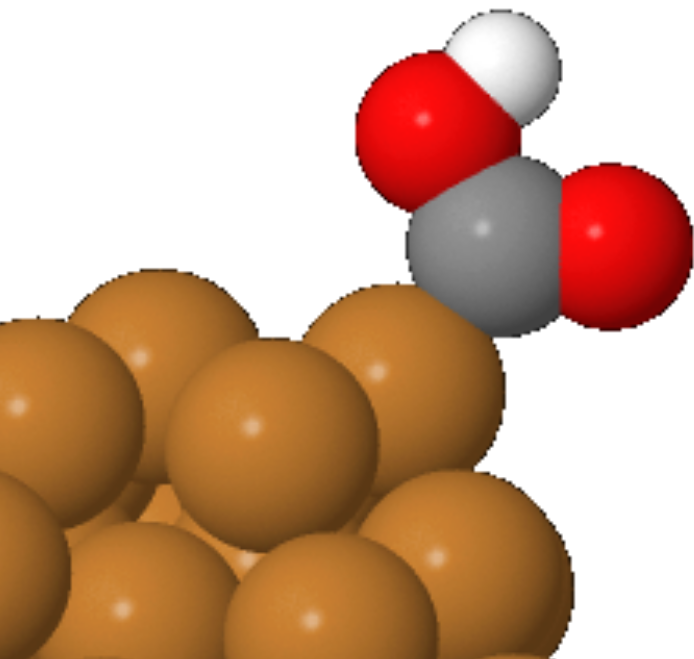
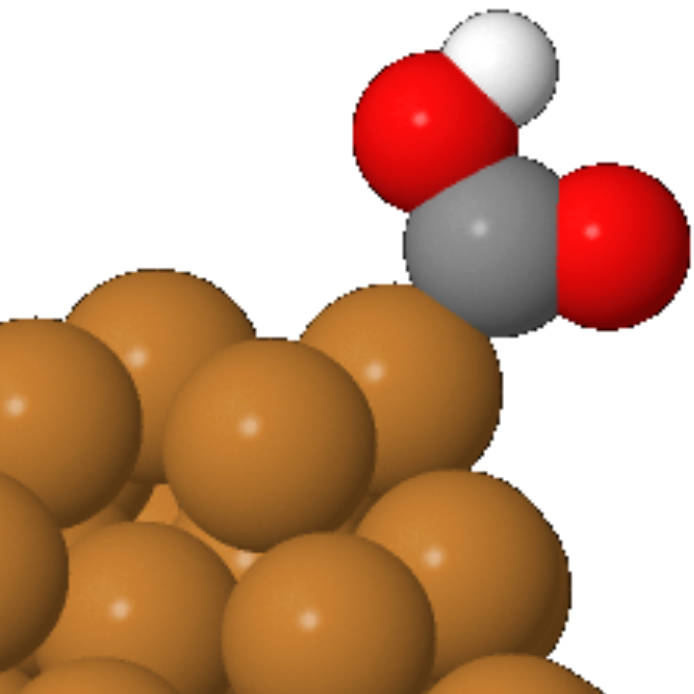
update version of Adsorber v1.9

diff --git a/README.md b/README.md
@@ -19,7 +19,7 @@ Group page: https://blogs.otago.ac.nz/annagarden/
 
 ## What is Adsorber
 
-Adsorber is designed to adsorb molecules in various way to a cluster or surface. 
+Adsorber is designed to create a number of models that have adsorbates adsorbed to various top, bridge, three-fold, and four-fold site on a cluster or surface model. 
 
 ## Installation
 
@@ -33,7 +33,7 @@ Jmol is also used for looking at your cluster/surface model with adsorbed atoms 
 
 ## Output files that are created by Adsorber
 
-Adsorber will adsorb atoms and molecules on various binding sites across your cluster or surface model. An example of an COOH molecules adsorbed to a vertex site on a Cu<sub>78</sub> cluster is shown below
+Adsorber will adsorb atoms and molecules on various binding sites across your cluster or surface model. These include top, bridge, three-fold, and four-fold sites. An example of an COOH molecules adsorbed to a corner top-site on a Cu<sub>78</sub> cluster is shown below
 
 <p align="center">
 	<img src="https://github.com/GardenGroupUO/Adsorber/blob/main/Documentation/source/Images/COOH_site_1_rotation_0.png">

diff --git a/Documentation/source/index.rst b/Documentation/source/index.rst
@@ -40,6 +40,11 @@ Welcome to the Adsorber documentation!
 
 Group page: https://blogs.otago.ac.nz/annagarden/
 
+.. image:: Images/icon_image/icon_drawing_github.png
+  :width: 800
+  :alt: Adsorber_Logo
+  :align: center
+
 What is Adsorber
 ================
 
